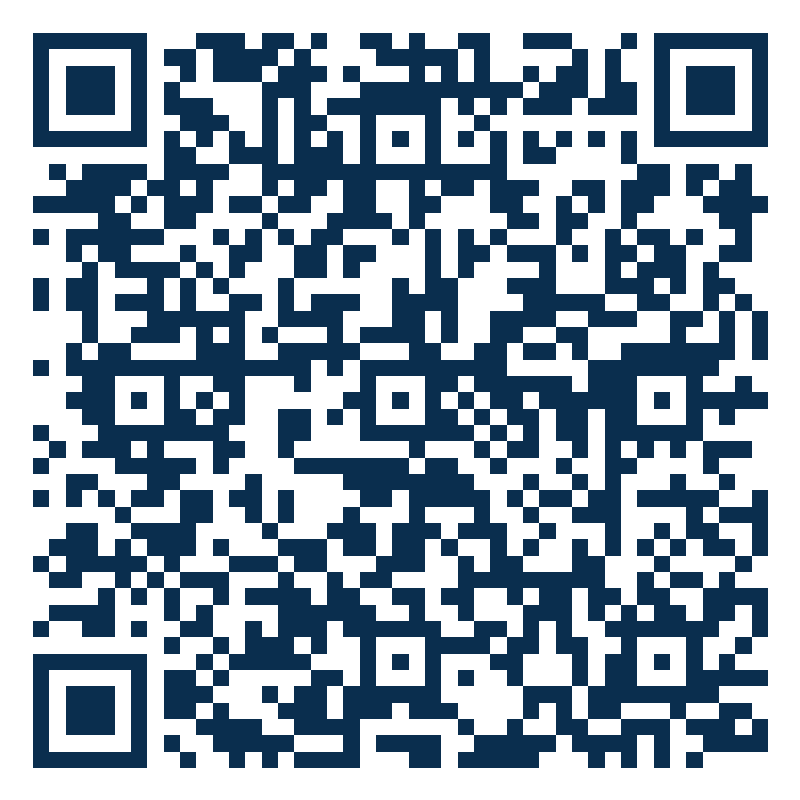
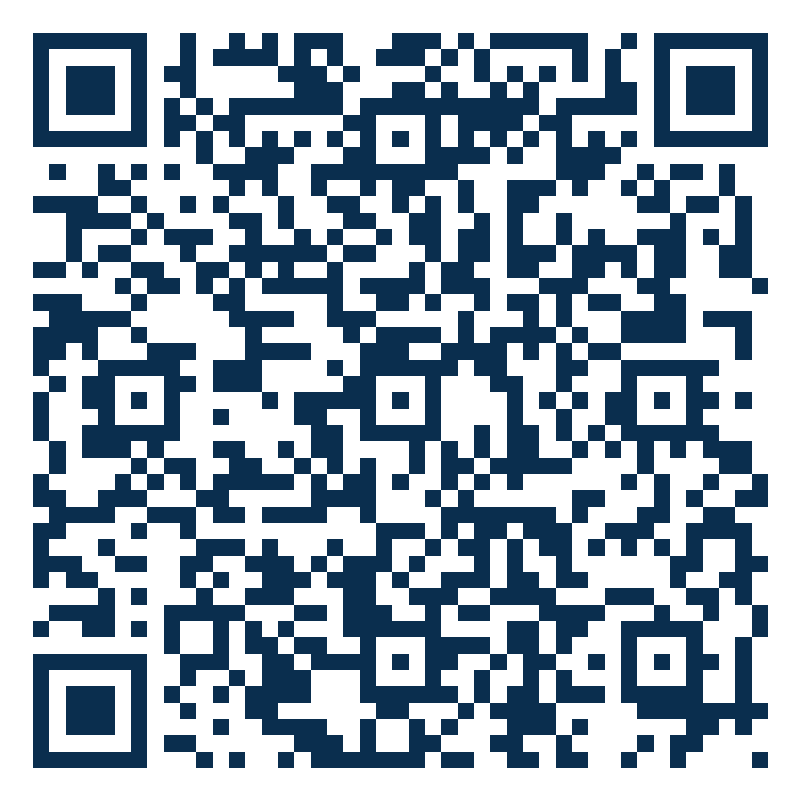
Use canonical resource URLs in QR codes for mobile reliability

diff --git a/docs/marketing/web/qr-links.html b/docs/marketing/web/qr-links.html
@@ -35,49 +35,49 @@
       <article class="card">
         <img src="assets/qr/hub.png" alt="QR to HDIM resources hub">
         <div class="label">1. Resources Hub</div>
-        <div class="url">https://landing-page-ecru-five-65.vercel.app/resources?share=1&utm_source=himss2026&utm_medium=qr&utm_campaign=node-to-java-story&utm_content=hub</div>
+        <div class="url">https://landing-page-ecru-five-65.vercel.app/resources</div>
       </article>
 
       <article class="card">
         <img src="assets/qr/origin-story.png" alt="QR to origin story">
         <div class="label">2. Origin Story</div>
-        <div class="url">https://landing-page-ecru-five-65.vercel.app/resources/origin-story?share=1&utm_source=himss2026&utm_medium=qr&utm_campaign=node-to-java-story&utm_content=origin-story</div>
+        <div class="url">https://landing-page-ecru-five-65.vercel.app/resources/origin-story</div>
       </article>
 
       <article class="card">
         <img src="assets/qr/executive-summary.png" alt="QR to executive summary">
         <div class="label">3. Executive Summary</div>
-        <div class="url">https://landing-page-ecru-five-65.vercel.app/resources/executive-summary?share=1&utm_source=himss2026&utm_medium=qr&utm_campaign=node-to-java-story&utm_content=executive-summary</div>
+        <div class="url">https://landing-page-ecru-five-65.vercel.app/resources/executive-summary</div>
       </article>
 
       <article class="card">
         <img src="assets/qr/java-rebuild.png" alt="QR to Java rebuild deep dive">
         <div class="label">4. Java Rebuild</div>
-        <div class="url">https://landing-page-ecru-five-65.vercel.app/resources/java-rebuild?share=1&utm_source=himss2026&utm_medium=qr&utm_campaign=node-to-java-story&utm_content=java-rebuild</div>
+        <div class="url">https://landing-page-ecru-five-65.vercel.app/resources/java-rebuild</div>
       </article>
 
       <article class="card">
         <img src="assets/qr/architecture-evolution.png" alt="QR to architecture evolution">
         <div class="label">5. Architecture Evolution</div>
-        <div class="url">https://landing-page-ecru-five-65.vercel.app/resources/architecture-evolution?share=1&utm_source=himss2026&utm_medium=qr&utm_campaign=node-to-java-story&utm_content=architecture-evolution</div>
+        <div class="url">https://landing-page-ecru-five-65.vercel.app/resources/architecture-evolution</div>
       </article>
 
       <article class="card">
         <img src="assets/qr/evidence-room.png" alt="QR to evidence room">
         <div class="label">6. Evidence Room</div>
-        <div class="url">https://landing-page-ecru-five-65.vercel.app/resources/evidence-room?share=1&utm_source=himss2026&utm_medium=qr&utm_campaign=node-to-java-story&utm_content=evidence-room</div>
+        <div class="url">https://landing-page-ecru-five-65.vercel.app/resources/evidence-room</div>
       </article>
 
       <article class="card">
         <img src="assets/qr/technical-path.png" alt="QR to technical path">
         <div class="label">7. Technical Path</div>
-        <div class="url">https://landing-page-ecru-five-65.vercel.app/resources/technical?share=1&utm_source=himss2026&utm_medium=qr&utm_campaign=node-to-java-story&utm_content=technical-path</div>
+        <div class="url">https://landing-page-ecru-five-65.vercel.app/resources/technical</div>
       </article>
 
       <article class="card">
         <img src="assets/qr/himss-brief.png" alt="QR to HIMSS brief">
         <div class="label">8. HIMSS Brief</div>
-        <div class="url">https://landing-page-ecru-five-65.vercel.app/resources/himss-brief?share=1&utm_source=himss2026&utm_medium=qr&utm_campaign=node-to-java-story&utm_content=himss-brief</div>
+        <div class="url">https://landing-page-ecru-five-65.vercel.app/resources/himss-brief</div>
       </article>
     </div>
 

diff --git a/docs/marketing/web/qr-portal.html b/docs/marketing/web/qr-portal.html
@@ -223,7 +223,7 @@
         label: 'Resources Hub',
         short: 'Master index for all buyer paths.',
         qr: 'assets/qr/hub.png',
-        url: 'https://landing-page-ecru-five-65.vercel.app/resources?share=1&utm_source=himss2026&utm_medium=qr&utm_campaign=node-to-java-story&utm_content=hub'
+        url: 'https://landing-page-ecru-five-65.vercel.app/resources'
       },
       {
         id: 'origin-story',
@@ -231,7 +231,7 @@
         label: 'Origin Story',
         short: 'Problem-to-platform founder narrative.',
         qr: 'assets/qr/origin-story.png',
-        url: 'https://landing-page-ecru-five-65.vercel.app/resources/origin-story?share=1&utm_source=himss2026&utm_medium=qr&utm_campaign=node-to-java-story&utm_content=origin-story'
+        url: 'https://landing-page-ecru-five-65.vercel.app/resources/origin-story'
       },
       {
         id: 'executive-summary',
@@ -239,7 +239,7 @@
         label: 'Executive Summary',
         short: 'High-level proof and outcomes.',
         qr: 'assets/qr/executive-summary.png',
-        url: 'https://landing-page-ecru-five-65.vercel.app/resources/executive-summary?share=1&utm_source=himss2026&utm_medium=qr&utm_campaign=node-to-java-story&utm_content=executive-summary'
+        url: 'https://landing-page-ecru-five-65.vercel.app/resources/executive-summary'
       },
       {
         id: 'java-rebuild',
@@ -247,7 +247,7 @@
         label: 'Java Rebuild',
         short: 'Node.js to Java decision deep dive.',
         qr: 'assets/qr/java-rebuild.png',
-        url: 'https://landing-page-ecru-five-65.vercel.app/resources/java-rebuild?share=1&utm_source=himss2026&utm_medium=qr&utm_campaign=node-to-java-story&utm_content=java-rebuild'
+        url: 'https://landing-page-ecru-five-65.vercel.app/resources/java-rebuild'
       },
       {
         id: 'architecture-evolution',
@@ -255,7 +255,7 @@
         label: 'Architecture Evolution',
         short: 'Dated decision log and platform phases.',
         qr: 'assets/qr/architecture-evolution.png',
-        url: 'https://landing-page-ecru-five-65.vercel.app/resources/architecture-evolution?share=1&utm_source=himss2026&utm_medium=qr&utm_campaign=node-to-java-story&utm_content=architecture-evolution'
+        url: 'https://landing-page-ecru-five-65.vercel.app/resources/architecture-evolution'
       },
       {
         id: 'evidence-room',
@@ -263,7 +263,7 @@
         label: 'Evidence Room',
         short: 'Governance and diligence path.',
         qr: 'assets/qr/evidence-room.png',
-        url: 'https://landing-page-ecru-five-65.vercel.app/resources/evidence-room?share=1&utm_source=himss2026&utm_medium=qr&utm_campaign=node-to-java-story&utm_content=evidence-room'
+        url: 'https://landing-page-ecru-five-65.vercel.app/resources/evidence-room'
       },
       {
         id: 'technical-path',
@@ -271,7 +271,7 @@
         label: 'Technical Path',
         short: 'Engineering depth and controls.',
         qr: 'assets/qr/technical-path.png',
-        url: 'https://landing-page-ecru-five-65.vercel.app/resources/technical?share=1&utm_source=himss2026&utm_medium=qr&utm_campaign=node-to-java-story&utm_content=technical-path'
+        url: 'https://landing-page-ecru-five-65.vercel.app/resources/technical'
       },
       {
         id: 'himss-brief',
@@ -279,7 +279,7 @@
         label: 'HIMSS Brief',
         short: 'Conference-ready walkthrough.',
         qr: 'assets/qr/himss-brief.png',
-        url: 'https://landing-page-ecru-five-65.vercel.app/resources/himss-brief?share=1&utm_source=himss2026&utm_medium=qr&utm_campaign=node-to-java-story&utm_content=himss-brief'
+        url: 'https://landing-page-ecru-five-65.vercel.app/resources/himss-brief'
       }
     ];
 

diff --git a/docs/marketing/web/assets/qr/README.md b/docs/marketing/web/assets/qr/README.md
@@ -14,14 +14,14 @@ All QR URLs use:
 - `utm_content=<asset-slug>`
 
 ## Included tracked targets
-- `hub.png` (`utm_content=hub`) -> `https://landing-page-ecru-five-65.vercel.app/resources?share=1&utm_source=himss2026&utm_medium=qr&utm_campaign=node-to-java-story&utm_content=hub`
-- `origin-story.png` (`utm_content=origin-story`) -> `https://landing-page-ecru-five-65.vercel.app/resources/origin-story?share=1&utm_source=himss2026&utm_medium=qr&utm_campaign=node-to-java-story&utm_content=origin-story`
-- `executive-summary.png` (`utm_content=executive-summary`) -> `https://landing-page-ecru-five-65.vercel.app/resources/executive-summary?share=1&utm_source=himss2026&utm_medium=qr&utm_campaign=node-to-java-story&utm_content=executive-summary`
-- `java-rebuild.png` (`utm_content=java-rebuild`) -> `https://landing-page-ecru-five-65.vercel.app/resources/java-rebuild?share=1&utm_source=himss2026&utm_medium=qr&utm_campaign=node-to-java-story&utm_content=java-rebuild`
-- `architecture-evolution.png` (`utm_content=architecture-evolution`) -> `https://landing-page-ecru-five-65.vercel.app/resources/architecture-evolution?share=1&utm_source=himss2026&utm_medium=qr&utm_campaign=node-to-java-story&utm_content=architecture-evolution`
-- `evidence-room.png` (`utm_content=evidence-room`) -> `https://landing-page-ecru-five-65.vercel.app/resources/evidence-room?share=1&utm_source=himss2026&utm_medium=qr&utm_campaign=node-to-java-story&utm_content=evidence-room`
-- `technical-path.png` (`utm_content=technical-path`) -> `https://landing-page-ecru-five-65.vercel.app/resources/technical?share=1&utm_source=himss2026&utm_medium=qr&utm_campaign=node-to-java-story&utm_content=technical-path`
-- `himss-brief.png` (`utm_content=himss-brief`) -> `https://landing-page-ecru-five-65.vercel.app/resources/himss-brief?share=1&utm_source=himss2026&utm_medium=qr&utm_campaign=node-to-java-story&utm_content=himss-brief`
+- `hub.png` (`utm_content=hub`) -> `https://landing-page-ecru-five-65.vercel.app/resources`
+- `origin-story.png` (`utm_content=origin-story`) -> `https://landing-page-ecru-five-65.vercel.app/resources/origin-story`
+- `executive-summary.png` (`utm_content=executive-summary`) -> `https://landing-page-ecru-five-65.vercel.app/resources/executive-summary`
+- `java-rebuild.png` (`utm_content=java-rebuild`) -> `https://landing-page-ecru-five-65.vercel.app/resources/java-rebuild`
+- `architecture-evolution.png` (`utm_content=architecture-evolution`) -> `https://landing-page-ecru-five-65.vercel.app/resources/architecture-evolution`
+- `evidence-room.png` (`utm_content=evidence-room`) -> `https://landing-page-ecru-five-65.vercel.app/resources/evidence-room`
+- `technical-path.png` (`utm_content=technical-path`) -> `https://landing-page-ecru-five-65.vercel.app/resources/technical`
+- `himss-brief.png` (`utm_content=himss-brief`) -> `https://landing-page-ecru-five-65.vercel.app/resources/himss-brief`
 
 ## Naming
 PNG filenames and `utm_content` use matching slugs for attribution consistency.
